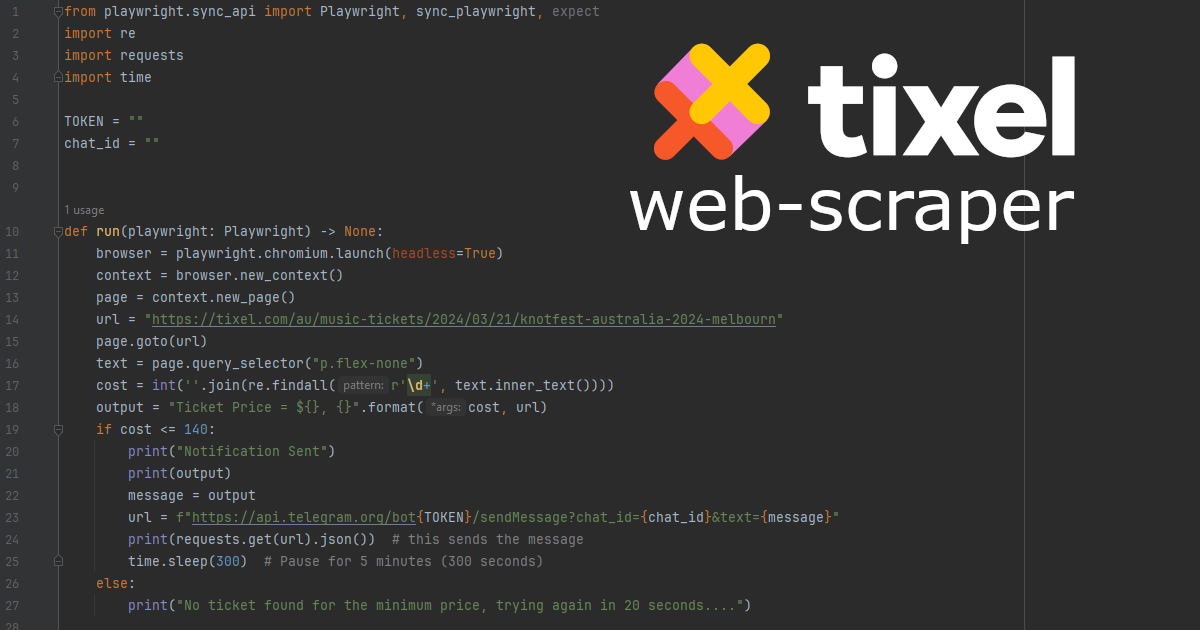
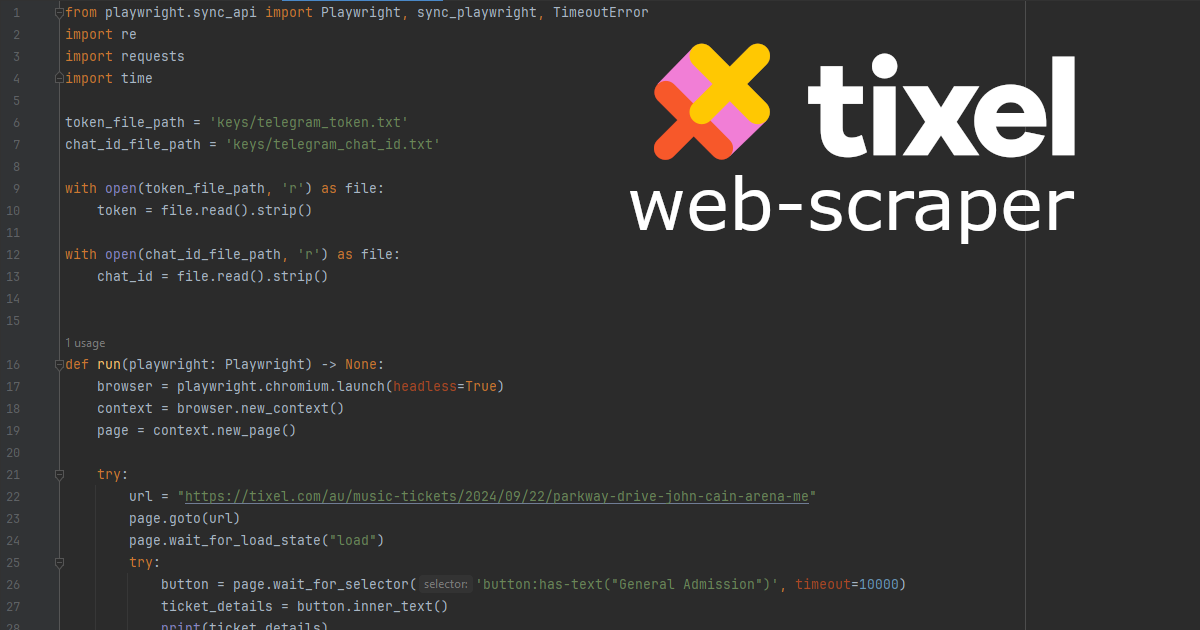
tixel scraper post

diff --git a/_posts/2024-08-06-tixel-scraper.md b/_posts/2024-08-06-tixel-scraper.md
@@ -1,0 +1,320 @@
+---
+title: Scraping Tixel to notify you instantly of tickets on sale
+date: 2024-08-08 18:00:00 PM
+categories: [Python, Automation]
+tags: [python, web-scraping, tixel, telegram]     # TAG names should always be lowercase
+description: Missed out on tickets to your favourite band? Utilise this tixel web-scraper to never miss out again!
+image:
+   path: /assets/img/posts/tixelscraper/preview.png
+   alt: Tixel Web Scraper
+comments: true
+# 1200 x 630
+---
+
+## The Problem
+Tixel is a ticket resale service in Australia which operates as a middle-man to ensure that those selling tickets online have legitimate tickets and that those same sellers get their money. It's a great service for buyers and seller alike however in my experience it's notification system for when a ticket is available is abyssmal. 
+
+Earlier this year when I wanted to attend [Bring Me The Horizon's](https://www.youtube.com/watch?v=Jq4NhAnnD0Q){:target="_blank"} Rod Laver Arena event (a show where almost 1000 fans were on the waitlist) I found that Tixel's email notification system was delayed for as long as 15 minutes after a ticket was posted online.
+
+Compounding the issue is Tixel's own processes:
+> We send out alerts in randomised order every few seconds, until that ticket is purchased. For popular events where tickets are bought quickly, there is not enough time to send out a notification out to everyone.
+
+Hence the purpose of this blog-post, let's come up with a way to circumvent their system to be notified instantly when a ticket becomes available.
+
+![notification](assets\img\posts\tixelscraper\successful_notification.png){: width="243" }
+
+## Requirements
+
+| Requirement | Comment |
+|-------|--------|
+| python | We will use python as our codebase |
+| IDE of choice| I use [PyCharm](https://www.jetbrains.com/pycharm/download/){:target="_blank"} | 
+| Telegram Android/iOS Application | This is the method we will use to notify us a ticket is available|
+
+#### Install the following python packages via your IDE or pip install:
+
+```python
+pip install playwright
+pip install requests
+```
+
+## Getting Started
+We will be utilising [Playwright for Python](https://playwright.dev/python/docs/intro){:target="_blank"} as our way to scrape the tixel website.
+
+1. Install playwright via pip install or your IDE's package manager
+2. Create a new python file and name it (e.g. `tixel_scraper.py`)
+3. If this is your first time installing playwright you may need to install the necessary browser binaries. Open your console/terminal and run the following command:
+
+```sh
+python -m playwright install
+```
+
+> You may need to use `python3` instead of `python`. 
+> Alternatively you may need to specify your python installation path if it is not able to find playwright.
+{: .prompt-tip }
+```sh
+"C:\path\to\python.exe" -m playwright install
+```
+If this is still not working perhaps you are using a virtual environment. If so try the following in your console/terminal:
+
+```sh
+.\venv\Scripts\activate
+python -m playwright install
+```
+
+## Writing Our Code
+
+1. Let's import the modules we're going to use
+   ```python
+   from playwright.sync_api import Playwright, sync_playwright, TimeoutError
+   import re
+   import requests
+   import time
+   ```
+2. Now let's write a function to open the website and call that function
+
+   ```python
+   def run(playwright: Playwright) -> None:
+      browser = playwright.chromium.launch(headless=False)
+      context = browser.new_context()
+      page = context.new_page()
+
+      try:
+         url = "https://tixel.com/au/music-tickets/2024/09/22/parkway-drive-john-cain-arena-me"
+         page.goto(url)
+         page.wait_for_load_state("load")
+      finally:
+        context.close()
+        browser.close()
+
+   with sync_playwright() as playwright:
+      run(playwright)
+   ```
+   > Note we are running the chromium browser with `headless=False` for now so we can see what is happening. We will change this at the end.
+   {: .prompt-info }
+
+3. When we run the code we should see the page loading in the chromium browser and then close once it's fully loaded
+![example](/assets/img/posts/tixelscraper/first_example.png)
+
+
+4. Now let's extract some data from the website! At the time of writing tixel will group similar tickets into individual cards based on their type (e.g. seated vs. general admission):
+![cards](/assets/img/posts/tixelscraper/ticket_grouping.png){: width="504" }
+
+    So my approach is simple, usually I like to be in the General Admission area and these are quite often the sought after tickets, so we will specify that we only want to extract data from the General Admission cards.
+      Let's add the following after the `page.wait_for_load_state("load")` line of our run function:
+   ```python
+         try:
+            button = page.wait_for_selector('button:has-text("General Admission")', timeout=10000)
+            ticket_details = button.inner_text()
+            print(ticket_details)
+         except TimeoutError:
+            print("No General Admission Tickets for sale. Retrying in 20 seconds.")
+            return
+   ```
+5. After we execute the code we should get a print out in our console (assuming there is atleast one ticket available for the show in this category) which displays the following:
+   ```
+   GENERAL ADMISSION STANDING 18+
+
+   10+ tickets available
+
+   From $75
+
+   Process finished with exit code 0
+   ```
+6. Next we will use regular expression we can extract the price of the ticket. Add the following below the `print(ticket_details)` line of our run function:
+   ```python
+   cost = int(''.join(re.findall(r'(?<=\$)[0-9,]+', ticket_details)))
+   print(cost)
+   ```
+   If a ticket is availabe I will get the price of the ticket printed out in the console:
+   ```
+   75
+   ```
+
+7. Lets write our message output in a nice format with a link to the event so when we are notified we can quickly jump in and purchase the ticket. This can sit outside our second try block:
+   ```python
+   output = "Ticket Price = ${}, {}".format(cost, url)
+   ```
+
+8. Here is the full code so far:
+```python
+   from playwright.sync_api import Playwright, sync_playwright, TimeoutError
+   import re
+   import requests
+   import time
+
+
+   def run(playwright: Playwright) -> None:
+      browser = playwright.chromium.launch(headless=False)
+      context = browser.new_context()
+      page = context.new_page()
+
+      try:
+         url = "https://tixel.com/au/music-tickets/2024/09/22/parkway-drive-john-cain-arena-me"
+         page.goto(url)
+         page.wait_for_load_state("load")
+         try:
+               button = page.wait_for_selector('button:has-text("General Admission")', timeout=10000)
+               ticket_details = button.inner_text()
+               print(ticket_details)
+               cost = int(''.join(re.findall(r'(?<=\$)[0-9,]+', ticket_details)))
+               print(cost)
+         except TimeoutError:
+               print("No General Admission Tickets for sale. Retrying in 30 seconds.")
+               return
+         output = "Ticket Price = ${}, {}".format(cost, url)
+
+      finally:
+         context.close()
+         browser.close()
+
+
+   with sync_playwright() as playwright:
+      run(playwright)
+```
+
+## Notification Setup
+
+1. Before we add our code to send the notification we need to do some setup with our Telegram app. If you haven't already, download the [Telegram app](https://telegram.org/apps) and sign up for an account.
+
+2. Contact the [BotFather](https://telegram.me/BotFather) bot and send the command `/start` followed by `/newbot`. Follow the instructions sent by BotFather to setup the bot, name it as you see fit (e.g. TixelNotificationBot).
+
+3. Once your bot is created you will receive an API key, copy this value and store it somewhere for later. 
+
+4. Start a new message and locate your bot via its name:
+
+    ![bot-message](assets\img\posts\tixelscraper\tixelNotificationBot.jpg){: width="180" height="300" }
+
+5. Send your bot the `/start` command.
+
+6. Lastly we need to find our own ID on Telegram, to do this you can message the [IDBot](https://telegram.me/myidbot) and send `/start` to receive your ID value. We will use this in the next section.
+
+## Adding the Notification Function to python
+
+1. Since we can now extract the data for the ticket we want, let's implement the way to notify us of the tickets availability. Create two new variables before our run function:
+```python
+token_file_path = 'keys/telegram_token.txt'
+chat_id_file_path = 'keys/telegram_chat_id.txt'
+```
+
+3. Create a folder in your `tixel_scraper.py` directory called `keys` and create two text files named `telegram_token.txt` and `telegram_chat_id.txt`. 
+
+4. Open these files and save your bot API key from earlier in the `telegram_token.txt` file and save your Telegram ID in the `telegram_chat_id.txt` file.
+
+5. Add the following code so we can read the text files, this needs to go after the variable declaration but before the run function:
+```python
+   with open(token_file_path, 'r') as file:
+      token = file.read().strip()
+
+   with open(chat_id_file_path, 'r') as file:
+      chat_id = file.read().strip()
+```
+
+5. Let's add the following if statement to our run function just below our `output = "Ticket Price = ${}, {}".format(cost, url)` line. This firsts checks the cost of the ticket matches the threshold. If true it will then send a notification to our Telegram bot who will then in turn notify us:
+   ```python
+      if cost <= 75:
+         print("Notification Sent")
+         message = output
+         url = f"https://api.telegram.org/bot{token}/sendMessage?chat_id={chat_id}&text={message}"
+         print(requests.get(url).json())  # this sends the message
+         time.sleep(300)  # Pause for 5 minutes to reduce spam (300 seconds)
+      else:
+         print("No ticket found for the minimum price, trying again in 20 seconds....")
+   ```
+   > I like to set a cost threshold particularily if I am trying to get a cheap ticket to an event that is not selling well. If your event is very popular and the tickets are being purchased immediately after listing it may be worth setting the price threshold to a large number (e.g. 500) so that you are notified of every ticket on sale. 
+   {: .prompt-info }
+
+7. We want this to run repeatedly until we stop the script so let's write a new function to replace our existing `sync_playwright` call. And make sure we call the function at script start.
+```python
+   def run_every_20_seconds():
+      while True:
+         with sync_playwright() as playwright:
+            run(playwright)
+            time.sleep(20)
+   
+   run_every_20_seconds()
+``` 
+
+8. Lastly make sure you set `headless=True` in our browser variable so that the Chromium browser does not render on the screen.
+
+## Finishing Up
+
+And that's all the coding done, run the script now and you should now be getting notifications if your ticket type and price are available. Note for testing purposes you may want to alter the ticket type and/or cost to ensure you are receiving notifications prior to running this script for the correct parameters. 
+
+![notification](assets\img\posts\tixelscraper\successful_notification.png){: width="243" }
+
+Here is the finished code from this post:
+```python
+from playwright.sync_api import Playwright, sync_playwright, TimeoutError
+import re
+import requests
+import time
+
+token_file_path = 'keys/telegram_token.txt'
+chat_id_file_path = 'keys/aa_telegram_chat_id.txt'
+
+with open(token_file_path, 'r') as file:
+    token = file.read().strip()
+
+with open(chat_id_file_path, 'r') as file:
+    chat_id = file.read().strip()
+
+
+def run(playwright: Playwright) -> None:
+    browser = playwright.chromium.launch(headless=True)
+    context = browser.new_context()
+    page = context.new_page()
+
+    try:
+        url = "https://tixel.com/au/music-tickets/2024/09/22/parkway-drive-john-cain-arena-me"
+        page.goto(url)
+        page.wait_for_load_state("load")
+        try:
+            button = page.wait_for_selector('button:has-text("General Admission")', timeout=10000)
+            ticket_details = button.inner_text()
+            cost = int(''.join(re.findall(r'(?<=\$)[0-9,]+', ticket_details)))
+        except TimeoutError:
+            print("No General Admission Tickets for sale. Retrying in 20 seconds.")
+            return
+        output = "Ticket Price = ${}, {}".format(cost, url)
+        if cost <= 200:
+            print("Notification Sent")
+            print(output)
+            message = output
+            url = f"https://api.telegram.org/bot{token}/sendMessage?chat_id={chat_id}&text={message}"
+            print(requests.get(url).json())  # this sends the message
+            time.sleep(300)  # Pause for 5 minutes (300 seconds)
+        else:
+            print("No ticket found for the minimum price, trying again in 20 seconds....")
+    finally:
+        context.close()
+        browser.close()
+
+
+def run_every_20_seconds():
+    while True:
+        with sync_playwright() as playwright:
+            run(playwright)
+        time.sleep(20)
+
+
+run_every_20_seconds()
+```
+
+## How could this be improved?
+Tixel actually has an auto purchase option for some events, if this is active for your event I recommend utilising it as well as this script.
+
+That said for events where auto purchase is disabled we could set up an auto purchase function by having us login to Tixel with a saved credit card and purchase the ticket once it's available. I am happy to do a manual purchase myself but if you really wanted that ticket you could have a go at implementing this.
+
+Another improvement would be to search all the available cards, currently we are only looking at the first button which matches the name:
+```python
+button = page.wait_for_selector('button:has-text("General Admission")', timeout=10000)
+```
+Ideally we could look at all the available buttons and do some regex matching which meet our parameters. I was a bit too lazy to implement this as my crude method seemed to work okay.
+
+Thanks for reading.
+
+Let me know your thoughts in the comments below!
+
+---
+
